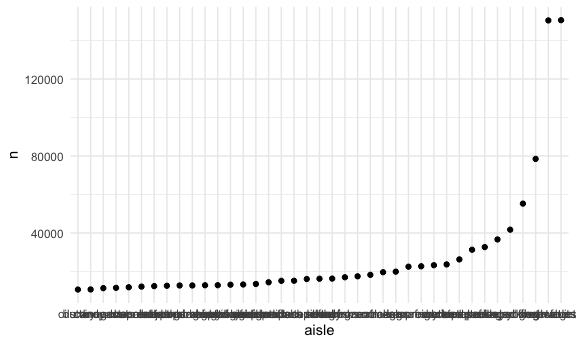
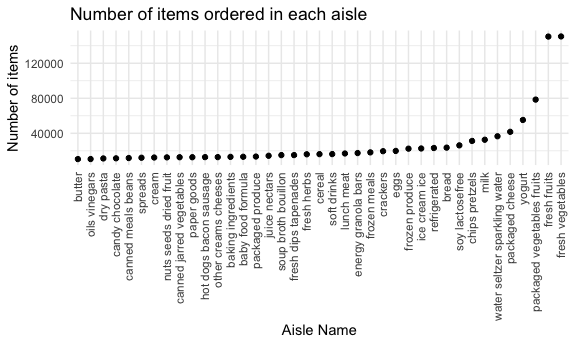
Completed the homework and all the graphs/tables are appearing. nyame y3 frfr

diff --git a/JF_HW3.md b/JF_HW3.md
@@ -24,6 +24,7 @@ library(tidyverse)
 ``` r
 library(dplyr)
 library(ggplot2)
+library(ggridges)
 library(patchwork)
 library(p8105.datasets)
 knitr::opts_chunk$set(
@@ -40,7 +41,7 @@ scale_colour_discrete = scale_color_viridis_d
 scale_fill_discrete = scale_fill_viridis_d
 ```
 
-\#QUESTION 1
+**QUESTION 1**
 
 ``` r
 data("instacart") #looking at the dataset as a whole. 15 columns and 1,384,617 rows
@@ -97,14 +98,12 @@ summary(instacart)
     ##  3rd Qu.:16.00                                        
     ##  Max.   :21.00
 
-\#Answer: In the instacart data there are 15 columns and 1,384,617 rows.
+**Answer: In the instacart data there are 15 columns and 1,384,617 rows.
 Some variables included the aisle, aisle ID, product id, order numbers,
 user id, and day of the week which only included 6 days. The data is
-organized by the order. number.
-
-\#Answer: There are 134 aisles. The fresh vegetables aisle(n=150609) and
-fresh fruits aisle (n= 150473) are the aisles where the most items are
-ordered from, respectively.
+organized by the order number. There are 134 aisles. The fresh
+vegetables aisle(n=150609) and fresh fruits aisle (n= 150473) are the
+aisles where the most items are ordered from, respectively.**
 
 ``` r
 instacart %>% 
@@ -115,44 +114,16 @@ instacart %>%
     aisle = fct_reorder(aisle, n)
   ) %>% 
   ggplot(aes(x = aisle, y = n)) +
-  geom_point() 
-```
-
-<img src="JF_HW3_files/figure-gfm/unnamed-chunk-3-1.png" width="90%" />
-
-``` r
-theme(axis.text.x = element_text(angle = 90, vjust = 0.5, hjust = 0.5)) +
+  geom_point() +
+theme(axis.text.x = element_text(angle = 90, vjust = 0.5, hjust = 1)) +
   labs(
     title = "Number of items ordered in each aisle",
     x = "Aisle Name",
     y = "Number of items"
-  ) #how to get the aisle products to turn so we can read them? and the title isn't appearing?
+  ) 
 ```
 
-    ## List of 4
-    ##  $ axis.text.x:List of 11
-    ##   ..$ family       : NULL
-    ##   ..$ face         : NULL
-    ##   ..$ colour       : NULL
-    ##   ..$ size         : NULL
-    ##   ..$ hjust        : num 0.5
-    ##   ..$ vjust        : num 0.5
-    ##   ..$ angle        : num 90
-    ##   ..$ lineheight   : NULL
-    ##   ..$ margin       : NULL
-    ##   ..$ debug        : NULL
-    ##   ..$ inherit.blank: logi FALSE
-    ##   ..- attr(*, "class")= chr [1:2] "element_text" "element"
-    ##  $ x          : chr "Aisle Name"
-    ##  $ y          : chr "Number of items"
-    ##  $ title      : chr "Number of items ordered in each aisle"
-    ##  - attr(*, "class")= chr [1:2] "theme" "gg"
-    ##  - attr(*, "complete")= logi FALSE
-    ##  - attr(*, "validate")= logi TRUE
-
-\#PROBLEM: how to get the aisle products to turn so we can read them?
-and the title isn’t appearing? Also how do I make the Question numbers
-larger and make all the comments smaller?
+<img src="JF_HW3_files/figure-gfm/unnamed-chunk-3-1.png" width="90%" />
 
 ``` r
 #Make a table showing the three most popular items in each of the aisles “baking ingredients”, “dog food care”, and “packaged vegetables fruits”. Include the number of times each item is ordered in your table.
@@ -181,9 +152,14 @@ instacart %>%
 | packaged vegetables fruits | Organic Raspberries                           | 5546 |       2 |
 | packaged vegetables fruits | Organic Blueberries                           | 4966 |       3 |
 
-``` r
-#Answer: In the baking ingredients aisle, Light Brown Sugar (n=499), Pure Baking Soda (n=387), and Cane Sugar (n=336), are the 3 most popular items. In the dog food care aisle, Snack Sticks Chicken & Rice Recipe Dog Treats (n=30), Organix Chicken & Brown Rice Recipe (n=28), and Small Dog Biscuits (n=26), are the 3 most popular items. In the packaged vegetables and fruits aisle, Organic Baby Spinach (n=9784), Organic Raspberries (n=5546), and Organic Blueberries (n=4966), are the 3 most popular items.
-```
+**Answer: In the baking ingredients aisle, Light Brown Sugar (n=499),
+Pure Baking Soda (n=387), and Cane Sugar (n=336), are the 3 most popular
+items. In the dog food care aisle, Snack Sticks Chicken & Rice Recipe
+Dog Treats (n=30), Organix Chicken & Brown Rice Recipe (n=28), and Small
+Dog Biscuits (n=26), are the 3 most popular items. In the packaged
+vegetables and fruits aisle, Organic Baby Spinach (n=9784), Organic
+Raspberries (n=5546), and Organic Blueberries (n=4966), are the 3 most
+popular items.**
 
 ``` r
 #Make a table showing the mean hour of the day at which Pink Lady Apples and Coffee Ice Cream are ordered on each day of the week; format this table for human readers (i.e. produce a 2 x 7 table).
@@ -192,6 +168,14 @@ instacart %>%
   filter(product_name %in% c("Pink Lady Apples", "Coffee Ice Cream")) %>% 
   group_by(product_name, order_dow) %>% 
   summarise(mean_hour = mean(order_hour_of_day)) %>% 
+  mutate(order_dow = recode(order_dow,
+                            "0" = "Sunday",
+                            "1" = "Monday",
+                            "2" = "Tuesday",
+                            "3" = "Wedensday",
+                            "4" = "Thursday",
+                            "5" = "Friday",
+                            "6" = "Saturday")) %>% 
   pivot_wider(
     names_from = order_dow,
     values_from = mean_hour
@@ -201,12 +185,12 @@ instacart %>%
 
     ## `summarise()` has grouped output by 'product_name'. You can override using the `.groups` argument.
 
-| product\_name    |        0 |        1 |        2 |        3 |        4 |        5 |        6 |
-|:-----------------|---------:|---------:|---------:|---------:|---------:|---------:|---------:|
-| Coffee Ice Cream | 13.77419 | 14.31579 | 15.38095 | 15.31818 | 15.21739 | 12.26316 | 13.83333 |
-| Pink Lady Apples | 13.44118 | 11.36000 | 11.70213 | 14.25000 | 11.55172 | 12.78431 | 11.93750 |
+| product\_name    |   Sunday |   Monday |  Tuesday | Wedensday | Thursday |   Friday | Saturday |
+|:-----------------|---------:|---------:|---------:|----------:|---------:|---------:|---------:|
+| Coffee Ice Cream | 13.77419 | 14.31579 | 15.38095 |  15.31818 | 15.21739 | 12.26316 | 13.83333 |
+| Pink Lady Apples | 13.44118 | 11.36000 | 11.70213 |  14.25000 | 11.55172 | 12.78431 | 11.93750 |
 
-\#QUESTION 2
+**QUESTION 2**
 
 ``` r
 #Note to self: You can change the order level of a factor variable to your specified preference using forcats::fct_relevel (visualization pt 2)
@@ -257,26 +241,204 @@ brfss %>%
     ## 19  2010 TX                 16
     ## 20  2010 WA                 10
 
-``` r
-#Answer: In 2002, CT, FL, and NC, were the three states that were observed at 7 locations. MA and NJ were observed at 8 locations while PA was observed at 10 locations. In 2010, CO, PA and SC were observed at 7 locations, OH was observed at 8 locations, NY and MA were observed at 9 locations, WA and NE were observed at 10 locations, CA, MD, and NC were observed in 12 locations, TX were observed in 16 locations, NJ were observed in 19 locations, and FL were observed in 41 locations
-```
+**Answer: In 2002, CT, FL, and NC, were the three states that were
+observed at 7 locations. MA and NJ were observed at 8 locations while PA
+was observed at 10 locations. In 2010, CO, PA and SC were observed at 7
+locations, OH was observed at 8 locations, NY and MA were observed at 9
+locations, WA and NE were observed at 10 locations, CA, MD, and NC were
+observed in 12 locations, TX were observed in 16 locations, NJ were
+observed in 19 locations, and FL were observed in 41 locations.**
 
 ``` r
 #Construct a dataset that is limited to Excellent responses, and contains, year, state, and a variable that averages the data_value across locations within a state. Make a “spaghetti” plot of this average value over time within a state 
 brfss2 <- brfss %>% 
   rename(state = locationabbr) %>%
+  select(year, state, response, data_value) %>%
   filter(response == "Excellent") %>%
-  group_by(year, state) %>%
-  summarize(average_dv = mean(data_value)) %>%
+  group_by(year,state) %>%
+  mutate(average_dv = mean(data_value)) %>%
   ggplot(aes(x = year, y = average_dv, color = state)) +
   geom_point() +
-  geom_line() + 
+  geom_line() +
   labs(
-    title = "Spaghetti plot of the average data value of locations in each state from 2002 to 2010",
+    title = "Each state average data value, 2002 to 2010",
     x = "Year",
-    y = "Average Data Value") 
+    y = "Average Data Value") +
+    theme(legend.position = "right")
+
+brfss2
 ```
 
-    ## `summarise()` has grouped output by 'year'. You can override using the `.groups` argument.
+    ## Warning: Removed 71 rows containing missing values (geom_point).
 
-\#PROBLEM:The spaghetti plot isn’t printing
+    ## Warning: Removed 65 row(s) containing missing values (geom_path).
+
+<img src="JF_HW3_files/figure-gfm/unnamed-chunk-8-1.png" width="90%" />
+
+**Answer: Due to me trying to plot many states in one plot, it is quite
+difficult to tell the difference between each line. However, we can see
+that there are quite a few states that have an average data value that
+stays within the range of 20 to 25 throughout the years.**
+
+``` r
+#Make a two-panel plot showing, for the years 2006, and 2010, distribution of data_value for responses (“Poor” to “Excellent”) among locations in NY State.
+
+brfss3 <- brfss %>% 
+  filter(year %in% c("2006","2010") & locationabbr == "NY") %>% 
+  ggplot(aes(x = data_value, y = response)) +
+  geom_density_ridges(scale = .85) +
+  facet_grid(~year) +
+  labs(
+    title = "Distribution of Data Value by Responses in NYS, 2006 and 2010",
+    x = "Data Value",
+    y = "Response"
+  )
+
+brfss3
+```
+
+    ## Picking joint bandwidth of 2.1
+
+    ## Picking joint bandwidth of 2.03
+
+<img src="JF_HW3_files/figure-gfm/unnamed-chunk-9-1.png" width="90%" />
+
+**Answer:I decided to use a density graph because they are good at
+showcasing the distribution of a numeric variable in a dataset. In terms
+of responses, we see that there was not much of a difference in the data
+values between the poor responses in 2006 and 2010. In the fair
+responses in 2006, there was a peak in the data value between 10 and 15
+(I would say the peak is around 12). However in 2010 we see that the
+data value range widens a bit and the peak shifts a tad bit (I would say
+the peak is around 13). In 2006, the good responses had a bimodial
+distribution with a peak between 25 and 30 and a peak between 35 and 40.
+In 2010, the distribution of the data value becomes more unimodial with
+a significant peak at data value = 30. In the 2006 very good responses,
+we see that the distribution was bimodial with a peak at data value =25
+and another peak around data value =34. In 2010, the distribution stays
+bimodial with a peak at data value =23 and another peak around data
+value =37 or 38. In the excellent response, we see that it follows a
+bimodial distribution with a peak at data value =20 and another around
+data value =27. In 2010 th shsape becomes more unimodal with a
+significant point at 25.**
+
+**QUESTION 3**
+
+``` r
+#Describe the resulting dataset (e.g. what variables exist, how many observations, etc).
+
+accel_df = 
+  read_csv('accel_data.csv') %>%
+  janitor::clean_names() %>%
+  pivot_longer(
+    activity_1:activity_1440,
+    names_to = "minute",
+    names_prefix = "activity_",
+    values_to = "activity"
+  ) %>%
+  mutate(day_type = ifelse(day %in% c("Saturday", "Sunday"),"weekend", "weekday"),
+         minute = as.integer(minute))
+```
+
+    ## Rows: 35 Columns: 1443
+
+    ## ── Column specification ────────────────────────────────────────────────────────
+    ## Delimiter: ","
+    ## chr    (1): day
+    ## dbl (1442): week, day_id, activity.1, activity.2, activity.3, activity.4, ac...
+
+    ## 
+    ## ℹ Use `spec()` to retrieve the full column specification for this data.
+    ## ℹ Specify the column types or set `show_col_types = FALSE` to quiet this message.
+
+**Answer: This dataset contains 5 weeks of accelerometer data collected
+from a 63 year-old male with BMI 25, who was admitted to the Advanced
+Cardiac Care Center of Columbia University Medical Center and diagnosed
+with congestive heart failure (CHF). There are 50400 rows and 6 columns
+in the accel\_df. The variables in this dataframe are week, day\_id,
+day, minute, activity, and the day\_type. Day\_type is the variable I
+created which specifies if a day is a weekday or weekend.**
+
+``` r
+#Using your tidied dataset, aggregate accross minutes to create a total activity variable for each day, and create a table showing these totals. Are any trends apparent?
+
+accel_df %>%
+  mutate(
+    day = forcats::fct_relevel(day, c("Monday","Tuesday","Wednesday","Thursday","Friday","Saturday","Sunday"))
+  ) %>%
+  group_by(week, day) %>%
+  summarize(
+    total_activity = sum(activity)
+  ) %>%
+  knitr::kable()
+```
+
+    ## `summarise()` has grouped output by 'week'. You can override using the `.groups` argument.
+
+| week | day       | total\_activity |
+|-----:|:----------|----------------:|
+|    1 | Monday    |        78828.07 |
+|    1 | Tuesday   |       307094.24 |
+|    1 | Wednesday |       340115.01 |
+|    1 | Thursday  |       355923.64 |
+|    1 | Friday    |       480542.62 |
+|    1 | Saturday  |       376254.00 |
+|    1 | Sunday    |       631105.00 |
+|    2 | Monday    |       295431.00 |
+|    2 | Tuesday   |       423245.00 |
+|    2 | Wednesday |       440962.00 |
+|    2 | Thursday  |       474048.00 |
+|    2 | Friday    |       568839.00 |
+|    2 | Saturday  |       607175.00 |
+|    2 | Sunday    |       422018.00 |
+|    3 | Monday    |       685910.00 |
+|    3 | Tuesday   |       381507.00 |
+|    3 | Wednesday |       468869.00 |
+|    3 | Thursday  |       371230.00 |
+|    3 | Friday    |       467420.00 |
+|    3 | Saturday  |       382928.00 |
+|    3 | Sunday    |       467052.00 |
+|    4 | Monday    |       409450.00 |
+|    4 | Tuesday   |       319568.00 |
+|    4 | Wednesday |       434460.00 |
+|    4 | Thursday  |       340291.00 |
+|    4 | Friday    |       154049.00 |
+|    4 | Saturday  |         1440.00 |
+|    4 | Sunday    |       260617.00 |
+|    5 | Monday    |       389080.00 |
+|    5 | Tuesday   |       367824.00 |
+|    5 | Wednesday |       445366.00 |
+|    5 | Thursday  |       549658.00 |
+|    5 | Friday    |       620860.00 |
+|    5 | Saturday  |         1440.00 |
+|    5 | Sunday    |       138421.00 |
+
+**Answer: Activity counts were at their lowest on the two Saturdays
+prior to end of data collection (weeks 4 and 5). This individual is most
+active on Friday, Saturday, Sunday, and Monday. However the Saturday of
+Week 4 and Week 5, the individual’s activity was not as high as previous
+saturdays. On each Saturday (week 4 and week 5) the participant had a
+total activity of 1440 min.**
+
+``` r
+# Make a single-panel plot that shows the 24-hour activity time courses for each day and use color to indicate day of the week. Describe in words any patterns or conclusions you can make based on this graph.
+
+accel_df %>% 
+  ggplot(aes(x = minute, y = activity, color = day)) + 
+  geom_line() +
+  labs(
+    title = "24-Hour Activity Count by Day",
+    x = "Time",
+    y = "Activity Count"
+  ) + 
+  scale_x_continuous(
+    breaks = c(0, 360, 720, 1080, 1440),
+    labels = c("12AM", "6AM", "12PM", "6PM", "11:59PM")
+    )
+```
+
+<img src="JF_HW3_files/figure-gfm/unnamed-chunk-12-1.png" width="90%" />
+
+**Answer: Based on this graph, this indivivdual’s is not active during
+12am to 6am which is most likely because they are asleep. Generally,
+this individual seems to be more active around 7/8pm-10/10:30pm.**
